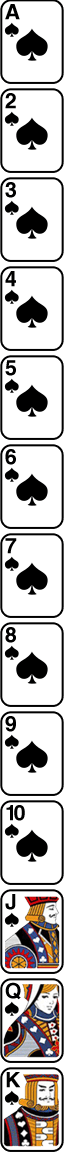
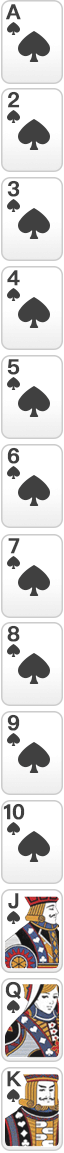
update style

diff --git a/src/style/card.scss b/src/style/card.scss
@@ -52,11 +52,10 @@
 
 .pokers-rank {
   display: inline-block;
-  background-image: url(../assets/niu/niuniu_sprite.png);
-  width: 50px;
+  background-image: url(../assets/niu/niuniu_rank.png);
+  background-size: cover;
+  width: 45px;
   height: 25px;
-  background-position: 4px 2px;
-  background-size: 400px;
 }
 
 @for $num from 1 through 13 {
@@ -65,67 +64,56 @@
   }
 }
 
-.waitopen {
-  display: inline-block;
-  width: 100%;
-  height: 80px;
-  .img {
-    height: 100%;
-  }
-}
-
 .win-badge {
   position: absolute;
-  right: -20px;
+  right: -15px;
   top: -10px;
   display: inline-block;
-  background-image: url(../assets/niu/niuniu_sprite.png);
-  background-size: 300px;
-  background-position: -55px -108px;
-  width: 35px;
-  height: 35px;
+  background-image: url(../assets/niu/niuniu_win.png);
+  background-size: cover;
+  width: 25px;
+  height: 25px;
   z-index: 2;
 }
 
-
 .rank-1 {
-  background-position: 4px -32px
+  background-position: 0px -25px
 }
 
 .rank-2 {
-  background-position: 4px -66px
+  background-position: 0px -50px
 }
 
 .rank-3 {
-  background-position: 4px -99px
+  background-position: 0px -75px
 }
 
 .rank-4 {
-  background-position: 4px -133px
+  background-position: 0px -100px
 }
 
 .rank-5 {
-  background-position: 4px -167px
+  background-position: 0px -126px
 }
 
 .rank-6 {
-  background-position: 4px -200px
+  background-position: 0px -152px
 }
 
 .rank-7 {
-  background-position: 4px -233px
+  background-position: 0px -180px
 }
 
 .rank-8 {
-  background-position: 4px -267px
+  background-position: 0px -205px
 }
 
 .rank-9 {
-  background-position: 4px -301px
+  background-position: 0px -230px
 }
 
 .rank-10 {
-  background-position: 4px -334px
+  background-position: 0px -256px
 }
 
 

diff --git a/src/components/ChatMessages.vue b/src/components/ChatMessages.vue
@@ -38,7 +38,7 @@
 
             <div :class="['envelope-message','clickable',
               {'null': (msg.envelope_status.total === msg.envelope_status.users.length) &&
-                !msg.envelope_status.users.map(item => item.receiver_id).includes(user.id)}]"
+                !msg.envelope_status.users.map(item => item.username).includes(user.username)}]"
               v-else-if="msg.envelope_status && isAlive(msg.envelope_status.expired_time)"
               @click="takeEnvelope(msg)">
               <img class="img m-r" src="../assets/envelope_message.png" alt="envelope" />
@@ -453,12 +453,12 @@ export default {
   padding: 10px;
   border-radius: 5px;
   justify-content: stretch;
-  background-color: #eea549;
+  background-color: #fa9d3b;
   position: relative;
 
   &.expired {
     opacity: .6;
-    background: #999999;
+    background: #D69F14;
   }
 
   &.null {

diff --git a/src/screens/games/GameCategory.vue b/src/screens/games/GameCategory.vue
@@ -12,11 +12,13 @@
           <el-button size="small" @click="reset">重置</el-button>
         </el-col>
       </el-row>
-      <section class="cardresults-wrapper m-b" v-if="currentGameResult && (game.code === 'msnn' || game.code === 'pk10nn')">
+      <section class="cardresults-wrapper m-b"
+        v-loading="!currentGameResult.issue_number"
+        element-loading-text="等待开奖中"
+        v-if="currentGameResult && (game.code === 'msnn' || game.code === 'pk10nn')">
         <CardResult :currentGameResult="currentGameResult"/>
       </section>
-      <div
-        v-for="(playSection, index) in playSections"
+      <div v-for="(playSection, index) in playSections"
         class="clearfix"
         :key="playSection.id + 'playSection' + index"
         v-if="playSections.length">

diff --git a/src/components/CardResult.vue b/src/components/CardResult.vue
@@ -1,9 +1,6 @@
 <template>
   <ul class="pokers">
-    <li v-if="!currentGameResult.issue_number" class="waitopen text-center">
-      <img class="img" src="../assets/niu/waitopen.png" alt="">
-    </li>
-    <li v-else class="poker"
+    <li class="poker"
       v-for="(value, key, index) in currentGameResult.extra_info"
       :key="index">
       <span class="win-badge" v-if="value.status === 'win'"></span>
